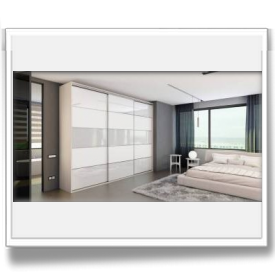
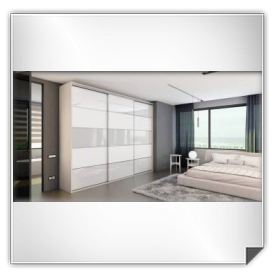
8

Changed region(s): [[0.0, 0.0291, 1.0, 0.9891]]

diff --git a/pcss/shkaf-kupe.css b/pcss/shkaf-kupe.css
@@ -147,19 +147,19 @@ max-height: 100%; position: absolute; top: 0; bottom: 0; left: 3px; margin: auto
 #imGroup_2 > div { float: left; }
 #imCell_3 { display: block; position: relative; }
 #imCellStyle_3 { position: relative; box-sizing: border-box; text-align: center; z-index: 2;}
-#imCellStyleGraphics_3 { position: absolute; top: 20px; bottom: 20px; background-color: transparent; border-top-left-radius: 5px; border-top-right-radius: 5px; border-bottom-left-radius: 5px; border-bottom-right-radius: 5px; }
+#imCellStyleGraphics_3 { position: absolute; top: 20px; bottom: 25px; background-color: transparent; border-top-left-radius: 5px; border-top-right-radius: 5px; border-bottom-left-radius: 5px; border-bottom-right-radius: 5px; }
 #imObjectImage_5_03 { width: 100%; vertical-align: top; max-width: 154px; }
 #imCell_4 { display: block; position: relative; }
 #imCellStyle_4 { position: relative; box-sizing: border-box; text-align: center; z-index: 2;}
-#imCellStyleGraphics_4 { position: absolute; top: 20px; bottom: 20px; background-color: transparent; border-top-left-radius: 5px; border-top-right-radius: 5px; border-bottom-left-radius: 5px; border-bottom-right-radius: 5px; }
+#imCellStyleGraphics_4 { position: absolute; top: 20px; bottom: 25px; background-color: transparent; border-top-left-radius: 5px; border-top-right-radius: 5px; border-bottom-left-radius: 5px; border-bottom-right-radius: 5px; }
 #imObjectImage_5_04 { width: 100%; vertical-align: top; max-width: 144px; }
 #imCell_5 { display: block; position: relative; }
 #imCellStyle_5 { position: relative; box-sizing: border-box; text-align: center; z-index: 2;}
-#imCellStyleGraphics_5 { position: absolute; top: 20px; bottom: 20px; background-color: transparent; border-top-left-radius: 5px; border-top-right-radius: 5px; border-bottom-left-radius: 5px; border-bottom-right-radius: 5px; }
+#imCellStyleGraphics_5 { position: absolute; top: 20px; bottom: 25px; background-color: transparent; border-top-left-radius: 5px; border-top-right-radius: 5px; border-bottom-left-radius: 5px; border-bottom-right-radius: 5px; }
 #imObjectImage_5_05 { width: 100%; vertical-align: top; max-width: 110px; }
 #imCell_6 { display: block; position: relative; }
 #imCellStyle_6 { position: relative; box-sizing: border-box; text-align: center; z-index: 2;}
-#imCellStyleGraphics_6 { position: absolute; top: 20px; bottom: 20px; background-color: transparent; border-top-left-radius: 5px; border-top-right-radius: 5px; border-bottom-left-radius: 5px; border-bottom-right-radius: 5px; }
+#imCellStyleGraphics_6 { position: absolute; top: 20px; bottom: 25px; background-color: transparent; border-top-left-radius: 5px; border-top-right-radius: 5px; border-bottom-left-radius: 5px; border-bottom-right-radius: 5px; }
 #imObjectImage_5_06 { width: 100%; vertical-align: top; max-width: 143px; }
 #imCell_2 { display: block; position: relative; }
 #imCellStyle_2 { position: relative; box-sizing: border-box; text-align: center; z-index: 2;}
@@ -212,18 +212,18 @@ max-height: 100%; position: absolute; top: 0; bottom: 0; left: 3px; margin: auto
 	#imTextObject_5_01 .text-container {border-style: solid; border-color: rgba(169, 169, 169, 1); border-width: 0 1px 1px 1px;width: 100%; box-sizing: border-box;}
 	#imTextObject_5_01 .text-container { height: 129px;}
 	#imGroup_2 { width: 1148px; }
-	#imCell_3 { width: 247px; min-height: 191px;  padding-top: 20px; padding-bottom: 20px; padding-left: 20px; padding-right: 20px; }
-	#imCellStyle_3 { width: 247px; min-height: 191px; padding: 5px 5px 5px 5px; border-top: 1px solid rgba(128, 128, 128, 1); border-bottom: 1px solid rgba(128, 128, 128, 1); border-left: 1px solid rgba(128, 128, 128, 1); border-right: 1px solid rgba(128, 128, 128, 1); border-top-left-radius: 5px; border-top-right-radius: 5px; border-bottom-left-radius: 5px; border-bottom-right-radius: 5px; }
-	#imCellStyleGraphics_3 { left: 20px; right: 20px; }
-	#imCell_4 { width: 247px; min-height: 191px;  padding-top: 20px; padding-bottom: 20px; padding-left: 20px; padding-right: 20px; }
-	#imCellStyle_4 { width: 247px; min-height: 191px; padding: 5px 5px 5px 5px; border-top: 1px solid rgba(128, 128, 128, 1); border-bottom: 1px solid rgba(128, 128, 128, 1); border-left: 1px solid rgba(128, 128, 128, 1); border-right: 1px solid rgba(128, 128, 128, 1); border-top-left-radius: 5px; border-top-right-radius: 5px; border-bottom-left-radius: 5px; border-bottom-right-radius: 5px; }
-	#imCellStyleGraphics_4 { left: 20px; right: 20px; }
-	#imCell_5 { width: 247px; min-height: 191px;  padding-top: 20px; padding-bottom: 20px; padding-left: 20px; padding-right: 20px; }
-	#imCellStyle_5 { width: 247px; min-height: 191px; padding: 5px 5px 5px 5px; border-top: 1px solid rgba(128, 128, 128, 1); border-bottom: 1px solid rgba(128, 128, 128, 1); border-left: 1px solid rgba(128, 128, 128, 1); border-right: 1px solid rgba(128, 128, 128, 1); border-top-left-radius: 5px; border-top-right-radius: 5px; border-bottom-left-radius: 5px; border-bottom-right-radius: 5px; }
-	#imCellStyleGraphics_5 { left: 20px; right: 20px; }
-	#imCell_6 { width: 247px; min-height: 191px;  padding-top: 20px; padding-bottom: 20px; padding-left: 20px; padding-right: 20px; }
-	#imCellStyle_6 { width: 247px; min-height: 191px; padding: 5px 5px 6px 5px; border-top: 1px solid rgba(128, 128, 128, 1); border-bottom: 1px solid rgba(128, 128, 128, 1); border-left: 1px solid rgba(128, 128, 128, 1); border-right: 1px solid rgba(128, 128, 128, 1); border-top-left-radius: 5px; border-top-right-radius: 5px; border-bottom-left-radius: 5px; border-bottom-right-radius: 5px; }
-	#imCellStyleGraphics_6 { left: 20px; right: 20px; }
+	#imCell_3 { width: 242px; min-height: 191px;  padding-top: 20px; padding-bottom: 25px; padding-left: 20px; padding-right: 25px; }
+	#imCellStyle_3 { width: 242px; min-height: 191px; padding: 5px 5px 5px 5px; border-top: 1px solid rgba(128, 128, 128, 1); border-bottom: 1px solid rgba(128, 128, 128, 1); border-left: 1px solid rgba(128, 128, 128, 1); border-right: 1px solid rgba(128, 128, 128, 1); border-top-left-radius: 5px; border-top-right-radius: 5px; border-bottom-left-radius: 5px; border-bottom-right-radius: 5px; box-shadow: 3px 3px 5px 0px rgba(128, 128, 128, 1); }
+	#imCellStyleGraphics_3 { left: 20px; right: 25px; }
+	#imCell_4 { width: 242px; min-height: 191px;  padding-top: 20px; padding-bottom: 25px; padding-left: 20px; padding-right: 25px; }
+	#imCellStyle_4 { width: 242px; min-height: 191px; padding: 5px 5px 5px 5px; border-top: 1px solid rgba(128, 128, 128, 1); border-bottom: 1px solid rgba(128, 128, 128, 1); border-left: 1px solid rgba(128, 128, 128, 1); border-right: 1px solid rgba(128, 128, 128, 1); border-top-left-radius: 5px; border-top-right-radius: 5px; border-bottom-left-radius: 5px; border-bottom-right-radius: 5px; box-shadow: 3px 3px 5px 0px rgba(128, 128, 128, 1); }
+	#imCellStyleGraphics_4 { left: 20px; right: 25px; }
+	#imCell_5 { width: 242px; min-height: 191px;  padding-top: 20px; padding-bottom: 25px; padding-left: 20px; padding-right: 25px; }
+	#imCellStyle_5 { width: 242px; min-height: 191px; padding: 5px 5px 5px 5px; border-top: 1px solid rgba(128, 128, 128, 1); border-bottom: 1px solid rgba(128, 128, 128, 1); border-left: 1px solid rgba(128, 128, 128, 1); border-right: 1px solid rgba(128, 128, 128, 1); border-top-left-radius: 5px; border-top-right-radius: 5px; border-bottom-left-radius: 5px; border-bottom-right-radius: 5px; box-shadow: 3px 3px 5px 0px rgba(128, 128, 128, 1); }
+	#imCellStyleGraphics_5 { left: 20px; right: 25px; }
+	#imCell_6 { width: 242px; min-height: 191px;  padding-top: 20px; padding-bottom: 25px; padding-left: 20px; padding-right: 25px; }
+	#imCellStyle_6 { width: 242px; min-height: 191px; padding: 5px 5px 6px 5px; border-top: 1px solid rgba(128, 128, 128, 1); border-bottom: 1px solid rgba(128, 128, 128, 1); border-left: 1px solid rgba(128, 128, 128, 1); border-right: 1px solid rgba(128, 128, 128, 1); border-top-left-radius: 5px; border-top-right-radius: 5px; border-bottom-left-radius: 5px; border-bottom-right-radius: 5px; box-shadow: 3px 3px 5px 0px rgba(128, 128, 128, 1); }
+	#imCellStyleGraphics_6 { left: 20px; right: 25px; }
 	#imCell_2 { width: 1108px; min-height: 291px;  padding-top: 20px; padding-bottom: 20px; padding-left: 20px; padding-right: 20px; }
 	#imCellStyle_2 { width: 1108px; min-height: 291px; padding: 0px 0px 0px 0px; border-top: 0; border-bottom: 0; border-left: 0; border-right: 0; }
 	#imCellStyleGraphics_2 { left: 20px; right: 20px; }
@@ -249,18 +249,18 @@ max-height: 100%; position: absolute; top: 0; bottom: 0; left: 3px; margin: auto
 	#imTextObject_5_01 .text-container {border-style: solid; border-color: rgba(169, 169, 169, 1); border-width: 0 1px 1px 1px;width: 100%; box-sizing: border-box;}
 	#imTextObject_5_01 .text-container { height: 168px;}
 	#imGroup_2 { width: 720px; }
-	#imCell_3 { width: 154px; min-height: 191px;  padding-top: 20px; padding-bottom: 20px; padding-left: 13px; padding-right: 13px; }
-	#imCellStyle_3 { width: 154px; min-height: 191px; padding: 5px 5px 19px 5px; border-top: 1px solid rgba(128, 128, 128, 1); border-bottom: 1px solid rgba(128, 128, 128, 1); border-left: 1px solid rgba(128, 128, 128, 1); border-right: 1px solid rgba(128, 128, 128, 1); border-top-left-radius: 5px; border-top-right-radius: 5px; border-bottom-left-radius: 5px; border-bottom-right-radius: 5px; }
-	#imCellStyleGraphics_3 { left: 13px; right: 13px; }
-	#imCell_4 { width: 154px; min-height: 191px;  padding-top: 20px; padding-bottom: 20px; padding-left: 13px; padding-right: 13px; }
-	#imCellStyle_4 { width: 154px; min-height: 191px; padding: 5px 5px 7px 5px; border-top: 1px solid rgba(128, 128, 128, 1); border-bottom: 1px solid rgba(128, 128, 128, 1); border-left: 1px solid rgba(128, 128, 128, 1); border-right: 1px solid rgba(128, 128, 128, 1); border-top-left-radius: 5px; border-top-right-radius: 5px; border-bottom-left-radius: 5px; border-bottom-right-radius: 5px; }
-	#imCellStyleGraphics_4 { left: 13px; right: 13px; }
-	#imCell_5 { width: 154px; min-height: 191px;  padding-top: 20px; padding-bottom: 20px; padding-left: 13px; padding-right: 13px; }
-	#imCellStyle_5 { width: 154px; min-height: 191px; padding: 5px 5px 5px 5px; border-top: 1px solid rgba(128, 128, 128, 1); border-bottom: 1px solid rgba(128, 128, 128, 1); border-left: 1px solid rgba(128, 128, 128, 1); border-right: 1px solid rgba(128, 128, 128, 1); border-top-left-radius: 5px; border-top-right-radius: 5px; border-bottom-left-radius: 5px; border-bottom-right-radius: 5px; }
-	#imCellStyleGraphics_5 { left: 13px; right: 13px; }
-	#imCell_6 { width: 154px; min-height: 191px;  padding-top: 20px; padding-bottom: 20px; padding-left: 13px; padding-right: 13px; }
-	#imCellStyle_6 { width: 154px; min-height: 191px; padding: 5px 5px 7px 5px; border-top: 1px solid rgba(128, 128, 128, 1); border-bottom: 1px solid rgba(128, 128, 128, 1); border-left: 1px solid rgba(128, 128, 128, 1); border-right: 1px solid rgba(128, 128, 128, 1); border-top-left-radius: 5px; border-top-right-radius: 5px; border-bottom-left-radius: 5px; border-bottom-right-radius: 5px; }
-	#imCellStyleGraphics_6 { left: 13px; right: 13px; }
+	#imCell_3 { width: 149px; min-height: 191px;  padding-top: 20px; padding-bottom: 25px; padding-left: 13px; padding-right: 18px; }
+	#imCellStyle_3 { width: 149px; min-height: 191px; padding: 5px 5px 25px 5px; border-top: 1px solid rgba(128, 128, 128, 1); border-bottom: 1px solid rgba(128, 128, 128, 1); border-left: 1px solid rgba(128, 128, 128, 1); border-right: 1px solid rgba(128, 128, 128, 1); border-top-left-radius: 5px; border-top-right-radius: 5px; border-bottom-left-radius: 5px; border-bottom-right-radius: 5px; box-shadow: 3px 3px 5px 0px rgba(128, 128, 128, 1); }
+	#imCellStyleGraphics_3 { left: 13px; right: 18px; }
+	#imCell_4 { width: 149px; min-height: 191px;  padding-top: 20px; padding-bottom: 25px; padding-left: 13px; padding-right: 18px; }
+	#imCellStyle_4 { width: 149px; min-height: 191px; padding: 5px 5px 14px 5px; border-top: 1px solid rgba(128, 128, 128, 1); border-bottom: 1px solid rgba(128, 128, 128, 1); border-left: 1px solid rgba(128, 128, 128, 1); border-right: 1px solid rgba(128, 128, 128, 1); border-top-left-radius: 5px; border-top-right-radius: 5px; border-bottom-left-radius: 5px; border-bottom-right-radius: 5px; box-shadow: 3px 3px 5px 0px rgba(128, 128, 128, 1); }
+	#imCellStyleGraphics_4 { left: 13px; right: 18px; }
+	#imCell_5 { width: 149px; min-height: 191px;  padding-top: 20px; padding-bottom: 25px; padding-left: 13px; padding-right: 18px; }
+	#imCellStyle_5 { width: 149px; min-height: 191px; padding: 5px 5px 5px 5px; border-top: 1px solid rgba(128, 128, 128, 1); border-bottom: 1px solid rgba(128, 128, 128, 1); border-left: 1px solid rgba(128, 128, 128, 1); border-right: 1px solid rgba(128, 128, 128, 1); border-top-left-radius: 5px; border-top-right-radius: 5px; border-bottom-left-radius: 5px; border-bottom-right-radius: 5px; box-shadow: 3px 3px 5px 0px rgba(128, 128, 128, 1); }
+	#imCellStyleGraphics_5 { left: 13px; right: 18px; }
+	#imCell_6 { width: 149px; min-height: 191px;  padding-top: 20px; padding-bottom: 25px; padding-left: 13px; padding-right: 18px; }
+	#imCellStyle_6 { width: 149px; min-height: 191px; padding: 5px 5px 13px 5px; border-top: 1px solid rgba(128, 128, 128, 1); border-bottom: 1px solid rgba(128, 128, 128, 1); border-left: 1px solid rgba(128, 128, 128, 1); border-right: 1px solid rgba(128, 128, 128, 1); border-top-left-radius: 5px; border-top-right-radius: 5px; border-bottom-left-radius: 5px; border-bottom-right-radius: 5px; box-shadow: 3px 3px 5px 0px rgba(128, 128, 128, 1); }
+	#imCellStyleGraphics_6 { left: 13px; right: 18px; }
 	#imCell_2 { width: 694px; min-height: 363px;  padding-top: 20px; padding-bottom: 20px; padding-left: 13px; padding-right: 13px; }
 	#imCellStyle_2 { width: 694px; min-height: 363px; padding: 0px 0px 0px 0px; border-top: 0; border-bottom: 0; border-left: 0; border-right: 0; }
 	#imCellStyleGraphics_2 { left: 13px; right: 13px; }
@@ -286,18 +286,18 @@ max-height: 100%; position: absolute; top: 0; bottom: 0; left: 3px; margin: auto
 	#imTextObject_5_01 .text-container {border-style: solid; border-color: rgba(169, 169, 169, 1); border-width: 0 1px 1px 1px;width: 100%; box-sizing: border-box;}
 	#imTextObject_5_01 .text-container { height: 258px;}
 	#imGroup_2 { width: 480px; }
-	#imCell_3 { width: 104px; min-height: 162px;  padding-top: 20px; padding-bottom: 20px; padding-left: 8px; padding-right: 8px; }
-	#imCellStyle_3 { width: 104px; min-height: 162px; padding: 5px 5px 48px 5px; border-top: 1px solid rgba(128, 128, 128, 1); border-bottom: 1px solid rgba(128, 128, 128, 1); border-left: 1px solid rgba(128, 128, 128, 1); border-right: 1px solid rgba(128, 128, 128, 1); border-top-left-radius: 5px; border-top-right-radius: 5px; border-bottom-left-radius: 5px; border-bottom-right-radius: 5px; }
-	#imCellStyleGraphics_3 { left: 8px; right: 8px; }
-	#imCell_4 { width: 104px; min-height: 162px;  padding-top: 20px; padding-bottom: 20px; padding-left: 8px; padding-right: 8px; }
-	#imCellStyle_4 { width: 104px; min-height: 162px; padding: 5px 5px 41px 5px; border-top: 1px solid rgba(128, 128, 128, 1); border-bottom: 1px solid rgba(128, 128, 128, 1); border-left: 1px solid rgba(128, 128, 128, 1); border-right: 1px solid rgba(128, 128, 128, 1); border-top-left-radius: 5px; border-top-right-radius: 5px; border-bottom-left-radius: 5px; border-bottom-right-radius: 5px; }
-	#imCellStyleGraphics_4 { left: 8px; right: 8px; }
-	#imCell_5 { width: 104px; min-height: 162px;  padding-top: 20px; padding-bottom: 20px; padding-left: 8px; padding-right: 8px; }
-	#imCellStyle_5 { width: 104px; min-height: 162px; padding: 5px 5px 5px 5px; border-top: 1px solid rgba(128, 128, 128, 1); border-bottom: 1px solid rgba(128, 128, 128, 1); border-left: 1px solid rgba(128, 128, 128, 1); border-right: 1px solid rgba(128, 128, 128, 1); border-top-left-radius: 5px; border-top-right-radius: 5px; border-bottom-left-radius: 5px; border-bottom-right-radius: 5px; }
-	#imCellStyleGraphics_5 { left: 8px; right: 8px; }
-	#imCell_6 { width: 104px; min-height: 162px;  padding-top: 20px; padding-bottom: 20px; padding-left: 8px; padding-right: 8px; }
-	#imCellStyle_6 { width: 104px; min-height: 162px; padding: 5px 5px 40px 5px; border-top: 1px solid rgba(128, 128, 128, 1); border-bottom: 1px solid rgba(128, 128, 128, 1); border-left: 1px solid rgba(128, 128, 128, 1); border-right: 1px solid rgba(128, 128, 128, 1); border-top-left-radius: 5px; border-top-right-radius: 5px; border-bottom-left-radius: 5px; border-bottom-right-radius: 5px; }
-	#imCellStyleGraphics_6 { left: 8px; right: 8px; }
+	#imCell_3 { width: 99px; min-height: 154px;  padding-top: 20px; padding-bottom: 25px; padding-left: 8px; padding-right: 13px; }
+	#imCellStyle_3 { width: 99px; min-height: 154px; padding: 5px 5px 46px 5px; border-top: 1px solid rgba(128, 128, 128, 1); border-bottom: 1px solid rgba(128, 128, 128, 1); border-left: 1px solid rgba(128, 128, 128, 1); border-right: 1px solid rgba(128, 128, 128, 1); border-top-left-radius: 5px; border-top-right-radius: 5px; border-bottom-left-radius: 5px; border-bottom-right-radius: 5px; box-shadow: 3px 3px 5px 0px rgba(128, 128, 128, 1); }
+	#imCellStyleGraphics_3 { left: 8px; right: 13px; }
+	#imCell_4 { width: 99px; min-height: 154px;  padding-top: 20px; padding-bottom: 25px; padding-left: 8px; padding-right: 13px; }
+	#imCellStyle_4 { width: 99px; min-height: 154px; padding: 5px 5px 39px 5px; border-top: 1px solid rgba(128, 128, 128, 1); border-bottom: 1px solid rgba(128, 128, 128, 1); border-left: 1px solid rgba(128, 128, 128, 1); border-right: 1px solid rgba(128, 128, 128, 1); border-top-left-radius: 5px; border-top-right-radius: 5px; border-bottom-left-radius: 5px; border-bottom-right-radius: 5px; box-shadow: 3px 3px 5px 0px rgba(128, 128, 128, 1); }
+	#imCellStyleGraphics_4 { left: 8px; right: 13px; }
+	#imCell_5 { width: 99px; min-height: 154px;  padding-top: 20px; padding-bottom: 25px; padding-left: 8px; padding-right: 13px; }
+	#imCellStyle_5 { width: 99px; min-height: 154px; padding: 5px 5px 5px 5px; border-top: 1px solid rgba(128, 128, 128, 1); border-bottom: 1px solid rgba(128, 128, 128, 1); border-left: 1px solid rgba(128, 128, 128, 1); border-right: 1px solid rgba(128, 128, 128, 1); border-top-left-radius: 5px; border-top-right-radius: 5px; border-bottom-left-radius: 5px; border-bottom-right-radius: 5px; box-shadow: 3px 3px 5px 0px rgba(128, 128, 128, 1); }
+	#imCellStyleGraphics_5 { left: 8px; right: 13px; }
+	#imCell_6 { width: 99px; min-height: 154px;  padding-top: 20px; padding-bottom: 25px; padding-left: 8px; padding-right: 13px; }
+	#imCellStyle_6 { width: 99px; min-height: 154px; padding: 5px 5px 39px 5px; border-top: 1px solid rgba(128, 128, 128, 1); border-bottom: 1px solid rgba(128, 128, 128, 1); border-left: 1px solid rgba(128, 128, 128, 1); border-right: 1px solid rgba(128, 128, 128, 1); border-top-left-radius: 5px; border-top-right-radius: 5px; border-bottom-left-radius: 5px; border-bottom-right-radius: 5px; box-shadow: 3px 3px 5px 0px rgba(128, 128, 128, 1); }
+	#imCellStyleGraphics_6 { left: 8px; right: 13px; }
 	#imCell_2 { width: 464px; min-height: 570px;  padding-top: 20px; padding-bottom: 20px; padding-left: 8px; padding-right: 8px; }
 	#imCellStyle_2 { width: 464px; min-height: 570px; padding: 0px 0px 0px 0px; border-top: 0; border-bottom: 0; border-left: 0; border-right: 0; }
 	#imCellStyleGraphics_2 { left: 8px; right: 8px; }

diff --git a/index.html b/index.html
@@ -22,7 +22,7 @@
 		<link rel="stylesheet" type="text/css" href="style/print.css?14-0-3-1" media="print" />
 		<link rel="stylesheet" type="text/css" href="style/style.css?14-0-3-1" media="screen,print" />
 		<link rel="stylesheet" type="text/css" href="style/template.css?14-0-3-1" media="screen" />
-		<link rel="stylesheet" type="text/css" href="pcss/index.css?14-0-3-1-636765907705652148" media="screen,print" />
+		<link rel="stylesheet" type="text/css" href="pcss/index.css?14-0-3-1-636770167971160570" media="screen,print" />
 		<script type="text/javascript" src="res/jquery.js?14-0-3-1"></script>
 		<script type="text/javascript" src="res/x5engine.js?14-0-3-1" data-files-version="14-0-3-1"></script>
 		<script type="text/javascript">
@@ -31,7 +31,7 @@
 			x5engine.boot.push(function () { x5engine.parallax.start(); });
 			x5engine.boot.push(function () { x5engine.imPageToTop.initializeButton({}); });
 		</script>
-		<link rel="icon" href="favicon.png?14-0-3-1-636765907703777185" type="image/png" />
+		<link rel="icon" href="favicon.png?14-0-3-1-636770167968973153" type="image/png" />
 		<style>
 h1, h2, h3, h4, h5, h6 {
     font-weight: normal;
@@ -390,7 +390,7 @@ $(function () {$('#imStickyBar_imMenuObject_01 ul li').each(function () {    var
 				<div id="imCell_15" class="" > <div id="imCellStyleGraphics_15"></div><div id="imCellStyle_15"  data-responsive-sequence-number="15"><div id="imTextObject_15">
 					<div class="text-tab-content"  id="imTextObject_15_tab0" style="">
 						<div class="text-inner">
-							<div data-line-height="1.5" style="text-align: justify;"><img class="image-0 fleft" src="images/19_ci5xcp7x.jpg"  title="Студия дизайнерской мебели &quot;Mebelink&quot;" alt="Студия дизайнерской мебели &quot;Mebelink&quot;"/><span class="fs12">Студия дизайнерской мебели</span><span class="fs12"> </span><b><span class="fs16 cf1">"Mebelink"</span></b><span class="fs12"> </span><span class="fs12">рада предложить Вашему вниманию широкий ассортимент мебельных изделий, изготавливаемых индивидуально под заказ для дома, квартиры, дачи или офиса. Мы составим и выполним проект любой сложности в любом стиле, цветовой гамме, формах с учетом всех Ваших пожеланий, чтобы Вы наслаждались и ощущали, что получили именно то, о чем мечтали! Создавая мебель на заказ, мы используем материалы и фурнитуру только наивысшего качества, а многолетний опыт, профессионализм наших специалистов и современное оборудование позволяют нам гарантировать качество, которое соответствует самым высоким стандартам и требованиям. Также мы уверены, Вас приятно удивит наша гибкая ценовая политика!</span></div><div data-line-height="1.5" style="text-align: justify;"><span class="fs12">Студия</span><span class="fs12"> </span><span class="fs12">дизайнерской</span><span class="fs12"> </span><span class="fs12">мебели</span><span class="fs12"> </span><b><span class="fs16 cf1">"Mebelink"</span></b><span class="fs12"> </span><span class="fs12">изготавливает корпусную мебель элитного и среднего класса. Материалы и фурнитура от ведущих производителей: Corian (DuPont, Швеция), Montelli (DuPont), Hanex (Корея), Samsung (Корея), Grass (Австрия), Blum (Австрия), Inoxa (Италия), Egger (Австрия), Rehau (Австрия), Pfleiderer (Германия). Фасадные материалы: Деревянный массив, Шпон, Акриловый пластик, Крашеный МДФ, Пленка ПВХ. Алюминиевые конструкции с наполнением: Витраж, Холст, Батик, Бамбук, Раттан, Фотопечать, Пескоструйные рисунки, Стекло, Зеркало. Раздвижные и складные системы дверей: Terno Scorrevoli (Италия), Indeco (Польша).</span></div>
+							<div data-line-height="1.5" style="text-align: justify;"><img class="image-0 fleft" src="images/19_mkyospja.jpg"  title="Студия дизайнерской мебели &quot;Mebelink&quot;" alt="Студия дизайнерской мебели &quot;Mebelink&quot;"/><span class="fs12">Студия дизайнерской мебели</span><span class="fs12"> </span><b><span class="fs16 cf1">"Mebelink"</span></b><span class="fs12"> </span><span class="fs12">рада предложить Вашему вниманию широкий ассортимент мебельных изделий, изготавливаемых индивидуально под заказ для дома, квартиры, дачи или офиса. Мы составим и выполним проект любой сложности в любом стиле, цветовой гамме, формах с учетом всех Ваших пожеланий, чтобы Вы наслаждались и ощущали, что получили именно то, о чем мечтали! Создавая мебель на заказ, мы используем материалы и фурнитуру только наивысшего качества, а многолетний опыт, профессионализм наших специалистов и современное оборудование позволяют нам гарантировать качество, которое соответствует самым высоким стандартам и требованиям. Также мы уверены, Вас приятно удивит наша гибкая ценовая политика!</span></div><div data-line-height="1.5" style="text-align: justify;"><span class="fs12">Студия</span><span class="fs12"> </span><span class="fs12">дизайнерской</span><span class="fs12"> </span><span class="fs12">мебели</span><span class="fs12"> </span><b><span class="fs16 cf1">"Mebelink"</span></b><span class="fs12"> </span><span class="fs12">изготавливает корпусную мебель элитного и среднего класса. Материалы и фурнитура от ведущих производителей: Corian (DuPont, Швеция), Montelli (DuPont), Hanex (Корея), Samsung (Корея), Grass (Австрия), Blum (Австрия), Inoxa (Италия), Egger (Австрия), Rehau (Австрия), Pfleiderer (Германия). Фасадные материалы: Деревянный массив, Шпон, Акриловый пластик, Крашеный МДФ, Пленка ПВХ. Алюминиевые конструкции с наполнением: Витраж, Холст, Батик, Бамбук, Раттан, Фотопечать, Пескоструйные рисунки, Стекло, Зеркало. Раздвижные и складные системы дверей: Terno Scorrevoli (Италия), Indeco (Польша).</span></div>
 							<div style="height: 0; clear: both;"></div>
 						</div>
 					</div>

diff --git a/pcss/index.css b/pcss/index.css
@@ -604,10 +604,10 @@ html:not(.no-cssanimations) #imCell_14.animated {   -webkit-animation-duration: 
 	#imTextObject_20 .text-container { height: 99px;}
 	#imGroup_2 { width: 1145px; }
 	#imCell_2 { width: 258px; min-height: 329px;  padding-top: 15px; padding-bottom: 15px; padding-left: 15px; padding-right: 15px; }
-	#imCellStyle_2 { width: 258px; min-height: 329px; padding: 0px 0px 27px 0px; border-top: 0; border-bottom: 0; border-left: 0; border-right: 0; }
+	#imCellStyle_2 { width: 258px; min-height: 329px; padding: 0px 0px 70px 0px; border-top: 0; border-bottom: 0; border-left: 0; border-right: 0; }
 	#imCellStyleGraphics_2 { left: 15px; right: 15px; }
 	#imTextObject_02 .text-container {border-style: solid; border-color: rgba(169, 169, 169, 1); border-width: 0 1px 1px 1px;width: 100%; box-sizing: border-box;}
-	#imTextObject_02 .text-container { height: 302px;}
+	#imTextObject_02 .text-container { height: 259px;}
 	#imCell_3 { width: 259px; min-height: 329px;  padding-top: 15px; padding-bottom: 15px; padding-left: 15px; padding-right: 15px; }
 	#imCellStyle_3 { width: 259px; min-height: 329px; padding: 0px 0px 0px 0px; border-top: 0; border-bottom: 0; border-left: 0; border-right: 0; }
 	#imCellStyleGraphics_3 { left: 15px; right: 15px; }
@@ -620,10 +620,10 @@ html:not(.no-cssanimations) #imCell_14.animated {   -webkit-animation-duration: 
 	#imTextObject_04 .text-container {border-style: solid; border-color: rgba(169, 169, 169, 1); border-width: 0 1px 1px 1px;width: 100%; box-sizing: border-box;}
 	#imTextObject_04 .text-container { height: 259px;}
 	#imCell_5 { width: 252px; min-height: 329px;  padding-top: 15px; padding-bottom: 15px; padding-left: 15px; padding-right: 15px; }
-	#imCellStyle_5 { width: 252px; min-height: 329px; padding: 0px 0px 32px 0px; border-top: 0; border-bottom: 0; border-left: 0; border-right: 0; }
+	#imCellStyle_5 { width: 252px; min-height: 329px; padding: 0px 0px 75px 0px; border-top: 0; border-bottom: 0; border-left: 0; border-right: 0; }
 	#imCellStyleGraphics_5 { left: 15px; right: 15px; }
 	#imTextObject_05 .text-container {border-style: solid; border-color: rgba(169, 169, 169, 1); border-width: 0 1px 1px 1px;width: 100%; box-sizing: border-box;}
-	#imTextObject_05 .text-container { height: 297px;}
+	#imTextObject_05 .text-container { height: 254px;}
 	#imCell_6 { width: 1105px; min-height: 84px;  padding-top: 20px; padding-bottom: 20px; padding-left: 20px; padding-right: 20px; }
 	#imCellStyle_6 { width: 1105px; min-height: 84px; padding: 20px 20px 20px 20px; border-top: 0; border-bottom: 1px solid rgba(128, 128, 128, 1); border-left: 0; border-right: 0; }
 	#imCellStyleGraphics_6 { left: 20px; right: 20px; }
@@ -796,15 +796,15 @@ html:not(.no-cssanimations) #imCell_14.animated {   -webkit-animation-duration: 
 	#imTextObject_04 .text-container {border-style: solid; border-color: rgba(169, 169, 169, 1); border-width: 0 1px 1px 1px;width: 100%; box-sizing: border-box;}
 	#imTextObject_04 .text-container { height: 590px;}
 	#imCell_5 { width: 105px; min-height: 590px;  padding-top: 15px; padding-bottom: 15px; padding-left: 6px; padding-right: 6px; }
-	#imCellStyle_5 { width: 105px; min-height: 590px; padding: 0px 0px 10px 0px; border-top: 0; border-bottom: 0; border-left: 0; border-right: 0; }
+	#imCellStyle_5 { width: 105px; min-height: 590px; padding: 0px 0px 53px 0px; border-top: 0; border-bottom: 0; border-left: 0; border-right: 0; }
 	#imCellStyleGraphics_5 { left: 6px; right: 6px; }
 	#imTextObject_05 .text-container {border-style: solid; border-color: rgba(169, 169, 169, 1); border-width: 0 1px 1px 1px;width: 100%; box-sizing: border-box;}
-	#imTextObject_05 .text-container { height: 580px;}
-	#imCell_6 { width: 460px; min-height: 170px;  padding-top: 20px; padding-bottom: 20px; padding-left: 8px; padding-right: 8px; }
-	#imCellStyle_6 { width: 460px; min-height: 170px; padding: 20px 20px 20px 20px; border-top: 0; border-bottom: 1px solid rgba(128, 128, 128, 1); border-left: 0; border-right: 0; }
+	#imTextObject_05 .text-container { height: 537px;}
+	#imCell_6 { width: 460px; min-height: 127px;  padding-top: 20px; padding-bottom: 20px; padding-left: 8px; padding-right: 8px; }
+	#imCellStyle_6 { width: 460px; min-height: 127px; padding: 20px 20px 20px 20px; border-top: 0; border-bottom: 1px solid rgba(128, 128, 128, 1); border-left: 0; border-right: 0; }
 	#imCellStyleGraphics_6 { left: 8px; right: 8px; }
 	#imTextObject_06 .text-container {border-style: solid; border-color: rgba(169, 169, 169, 1); border-width: 0 1px 1px 1px;width: 100%; box-sizing: border-box;}
-	#imTextObject_06 .text-container { height: 129px;}
+	#imTextObject_06 .text-container { height: 86px;}
 	#imGroup_3 { width: 476px; }
 	#imCell_7 { width: 107px; min-height: 108px;  padding-top: 15px; padding-bottom: 15px; padding-left: 6px; padding-right: 6px; }
 	#imCellStyle_7 { width: 107px; min-height: 108px; padding: 0px 0px 1px 0px; border-top: 0; border-bottom: 0; border-left: 0; border-right: 0; }

diff --git a/kuhni.html b/kuhni.html
@@ -22,7 +22,7 @@
 		<link rel="stylesheet" type="text/css" href="style/print.css?14-0-3-1" media="print" />
 		<link rel="stylesheet" type="text/css" href="style/style.css?14-0-3-1" media="screen,print" />
 		<link rel="stylesheet" type="text/css" href="style/template.css?14-0-3-1" media="screen" />
-		<link rel="stylesheet" type="text/css" href="pcss/kuhni.css?14-0-3-1-636765906394794469" media="screen,print" />
+		<link rel="stylesheet" type="text/css" href="pcss/kuhni.css?14-0-3-1-636770167972131786" media="screen,print" />
 		<script type="text/javascript" src="res/jquery.js?14-0-3-1"></script>
 		<script type="text/javascript" src="res/x5engine.js?14-0-3-1" data-files-version="14-0-3-1"></script>
 		<script type="text/javascript">
@@ -30,7 +30,7 @@
 			x5engine.utils.currentPagePath = 'kuhni.html';
 			x5engine.boot.push(function () { x5engine.imPageToTop.initializeButton({}); });
 		</script>
-		<link rel="icon" href="favicon.png?14-0-3-1-636765906394208184" type="image/png" />
+		<link rel="icon" href="favicon.png?14-0-3-1-636770167971732615" type="image/png" />
 		<style>
 h1, h2, h3, h4, h5, h6 {
     font-weight: normal;
@@ -259,7 +259,7 @@ $(function () {$('#imStickyBar_imMenuObject_01 ul li').each(function () {    var
 				<div id="imCell_10" class="" > <div id="imCellStyleGraphics_10"></div><div id="imCellStyle_10"  data-responsive-sequence-number="6"><div id="imTextObject_4_10">
 					<div class="text-tab-content"  id="imTextObject_4_10_tab0" style="">
 						<div class="text-inner">
-							<div style="text-align: center;"><img class="image-0" src="images/32_njsm8g4l.jpg"  title="Изготовление мебели для кухни на заказ" alt="Изготовление мебели для кухни на заказ"/></div>
+							<div style="text-align: center;"><img class="image-0" src="images/32_sdujxy0p.jpg"  title="Изготовление мебели для кухни на заказ" alt="Изготовление мебели для кухни на заказ"/></div>
 						</div>
 					</div>
 				
@@ -267,7 +267,7 @@ $(function () {$('#imStickyBar_imMenuObject_01 ul li').each(function () {    var
 				</div></div><div id="imCell_11" class="" > <div id="imCellStyleGraphics_11"></div><div id="imCellStyle_11"  data-responsive-sequence-number="7"><div id="imTextObject_4_11">
 					<div class="text-tab-content"  id="imTextObject_4_11_tab0" style="">
 						<div class="text-inner">
-							<div style="text-align: center;"><img class="image-0" src="images/20_qbfj1fx8.jpg"  title="Изготовление мебели для кухни на заказ" alt="Изготовление мебели для кухни на заказ"/></div>
+							<div style="text-align: center;"><img class="image-0" src="images/20_7ptcrosh.jpg"  title="Изготовление мебели для кухни на заказ" alt="Изготовление мебели для кухни на заказ"/></div>
 						</div>
 					</div>
 				

diff --git a/mebel-dlya-detskoj.html b/mebel-dlya-detskoj.html
@@ -22,7 +22,7 @@
 		<link rel="stylesheet" type="text/css" href="style/print.css?14-0-3-1" media="print" />
 		<link rel="stylesheet" type="text/css" href="style/style.css?14-0-3-1" media="screen,print" />
 		<link rel="stylesheet" type="text/css" href="style/template.css?14-0-3-1" media="screen" />
-		<link rel="stylesheet" type="text/css" href="pcss/mebel-dlya-detskoj.css?14-0-3-1-636765906417747160" media="screen,print" />
+		<link rel="stylesheet" type="text/css" href="pcss/mebel-dlya-detskoj.css?14-0-3-1-636770179504954110" media="screen,print" />
 		<script type="text/javascript" src="res/jquery.js?14-0-3-1"></script>
 		<script type="text/javascript" src="res/x5engine.js?14-0-3-1" data-files-version="14-0-3-1"></script>
 		<script type="text/javascript">
@@ -30,7 +30,7 @@
 			x5engine.utils.currentPagePath = 'mebel-dlya-detskoj.html';
 			x5engine.boot.push(function () { x5engine.imPageToTop.initializeButton({}); });
 		</script>
-		<link rel="icon" href="favicon.png?14-0-3-1-636765906414741504" type="image/png" />
+		<link rel="icon" href="favicon.png?14-0-3-1-636770179502610394" type="image/png" />
 		<link rel="stylesheet" href="assets/bootstrap/css/bootstrap.min.css">
     <link rel="stylesheet" href="assets/fonts/font-awesome.min.css">
     <link rel="stylesheet" href="assets/css/styles.css">

diff --git a/mebel-na-zakaz.html b/mebel-na-zakaz.html
@@ -22,7 +22,7 @@
 		<link rel="stylesheet" type="text/css" href="style/print.css?14-0-3-1" media="print" />
 		<link rel="stylesheet" type="text/css" href="style/style.css?14-0-3-1" media="screen,print" />
 		<link rel="stylesheet" type="text/css" href="style/template.css?14-0-3-1" media="screen" />
-		<link rel="stylesheet" type="text/css" href="pcss/mebel-na-zakaz.css?14-0-3-1-636765906428485522" media="screen,print" />
+		<link rel="stylesheet" type="text/css" href="pcss/mebel-na-zakaz.css?14-0-3-1-636770167973546222" media="screen,print" />
 		<script type="text/javascript" src="res/jquery.js?14-0-3-1"></script>
 		<script type="text/javascript" src="res/x5engine.js?14-0-3-1" data-files-version="14-0-3-1"></script>
 		<script type="text/javascript">
@@ -30,7 +30,7 @@
 			x5engine.utils.currentPagePath = 'mebel-na-zakaz.html';
 			x5engine.boot.push(function () { x5engine.imPageToTop.initializeButton({}); });
 		</script>
-		<link rel="icon" href="favicon.png?14-0-3-1-636765906427994488" type="image/png" />
+		<link rel="icon" href="favicon.png?14-0-3-1-636770167973212371" type="image/png" />
 		<style>
 h1, h2, h3, h4, h5, h6 {
     font-weight: normal;

diff --git a/shkaf-kupe.html b/shkaf-kupe.html
@@ -22,7 +22,7 @@
 		<link rel="stylesheet" type="text/css" href="style/print.css?14-0-3-1" media="print" />
 		<link rel="stylesheet" type="text/css" href="style/style.css?14-0-3-1" media="screen,print" />
 		<link rel="stylesheet" type="text/css" href="style/template.css?14-0-3-1" media="screen" />
-		<link rel="stylesheet" type="text/css" href="pcss/shkaf-kupe.css?14-0-3-1-636765906401232400" media="screen,print" />
+		<link rel="stylesheet" type="text/css" href="pcss/shkaf-kupe.css?14-0-3-1-636770176375728308" media="screen,print" />
 		<script type="text/javascript" src="res/jquery.js?14-0-3-1"></script>
 		<script type="text/javascript" src="res/x5engine.js?14-0-3-1" data-files-version="14-0-3-1"></script>
 		<script type="text/javascript">
@@ -30,7 +30,7 @@
 			x5engine.utils.currentPagePath = 'shkaf-kupe.html';
 			x5engine.boot.push(function () { x5engine.imPageToTop.initializeButton({}); });
 		</script>
-		<link rel="icon" href="favicon.png?14-0-3-1-636765906400262466" type="image/png" />
+		<link rel="icon" href="favicon.png?14-0-3-1-636770176374634597" type="image/png" />
 		<style>
 h1, h2, h3, h4, h5, h6 {
     font-weight: normal;

diff --git a/prihozhie.html b/prihozhie.html
@@ -22,7 +22,7 @@
 		<link rel="stylesheet" type="text/css" href="style/print.css?14-0-3-1" media="print" />
 		<link rel="stylesheet" type="text/css" href="style/style.css?14-0-3-1" media="screen,print" />
 		<link rel="stylesheet" type="text/css" href="style/template.css?14-0-3-1" media="screen" />
-		<link rel="stylesheet" type="text/css" href="pcss/prihozhie.css?14-0-3-1-636765906406066807" media="screen,print" />
+		<link rel="stylesheet" type="text/css" href="pcss/prihozhie.css?14-0-3-1-636770177638024456" media="screen,print" />
 		<script type="text/javascript" src="res/jquery.js?14-0-3-1"></script>
 		<script type="text/javascript" src="res/x5engine.js?14-0-3-1" data-files-version="14-0-3-1"></script>
 		<script type="text/javascript">
@@ -30,7 +30,7 @@
 			x5engine.utils.currentPagePath = 'prihozhie.html';
 			x5engine.boot.push(function () { x5engine.imPageToTop.initializeButton({}); });
 		</script>
-		<link rel="icon" href="favicon.png?14-0-3-1-636765906405866837" type="image/png" />
+		<link rel="icon" href="favicon.png?14-0-3-1-636770177637868247" type="image/png" />
 		<style>
 h1, h2, h3, h4, h5, h6 {
     font-weight: normal;
